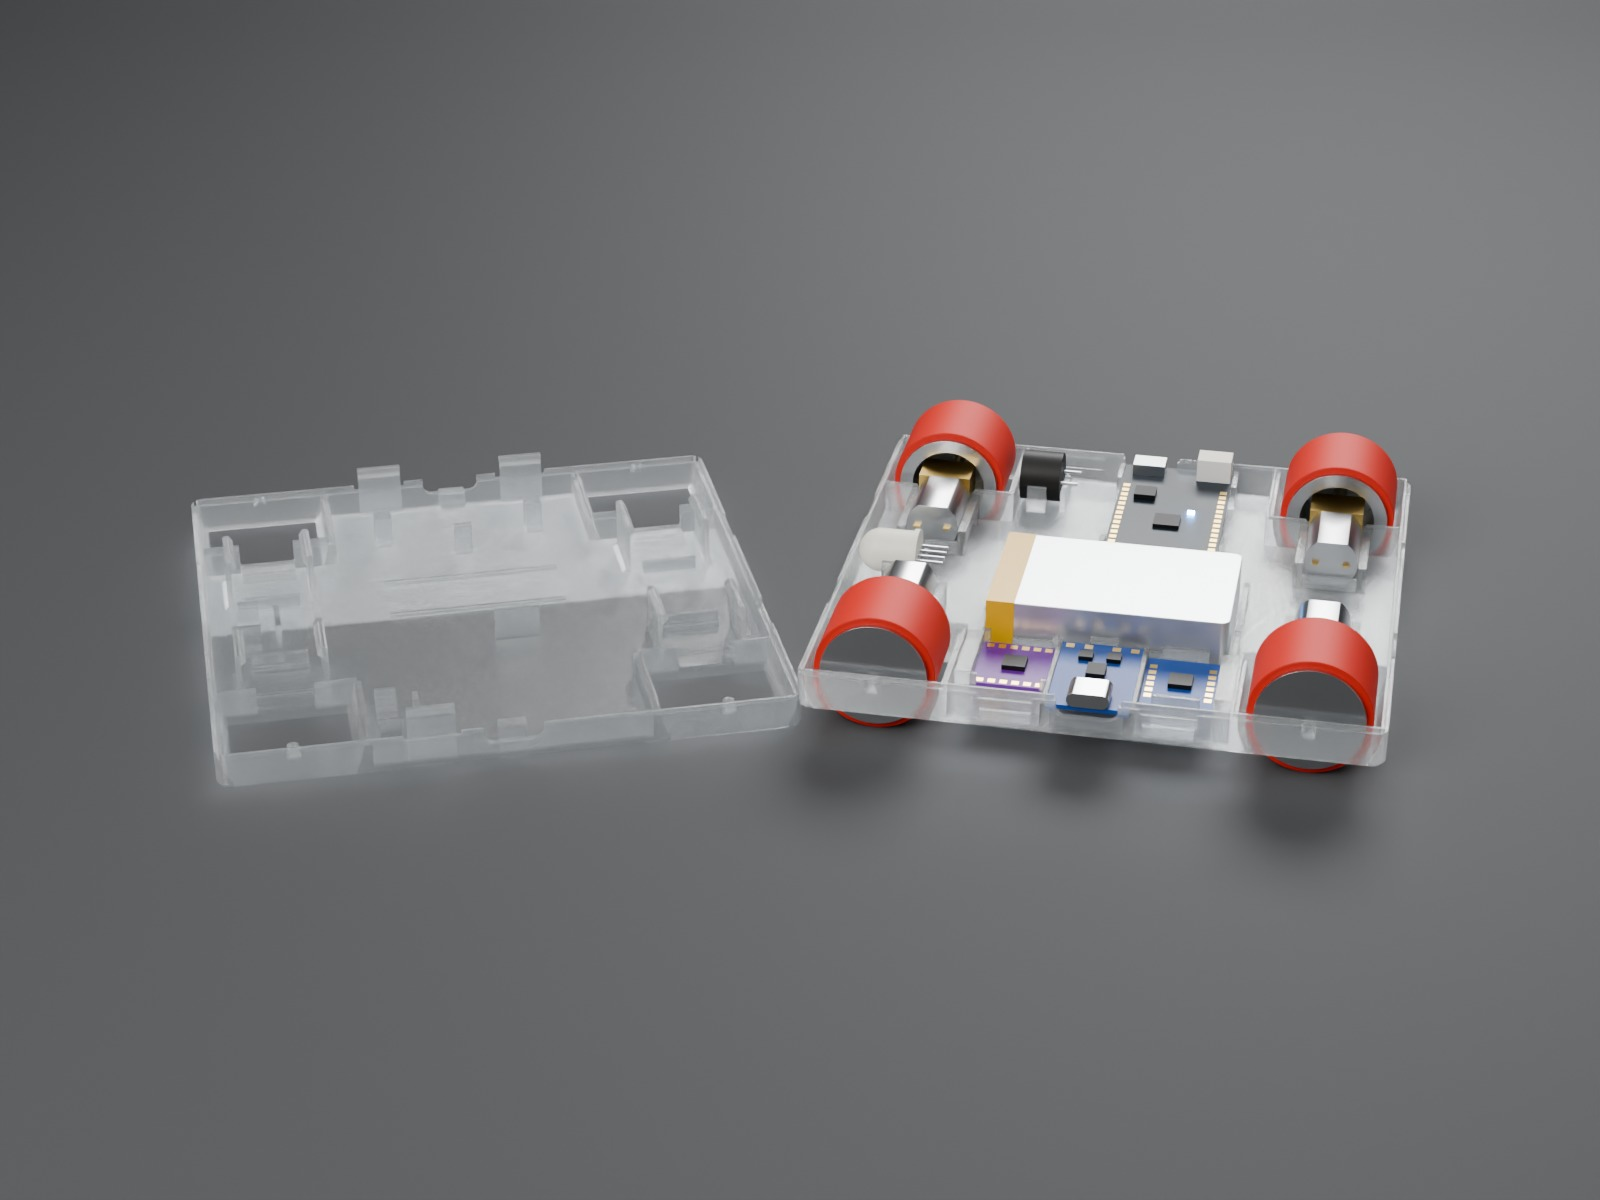
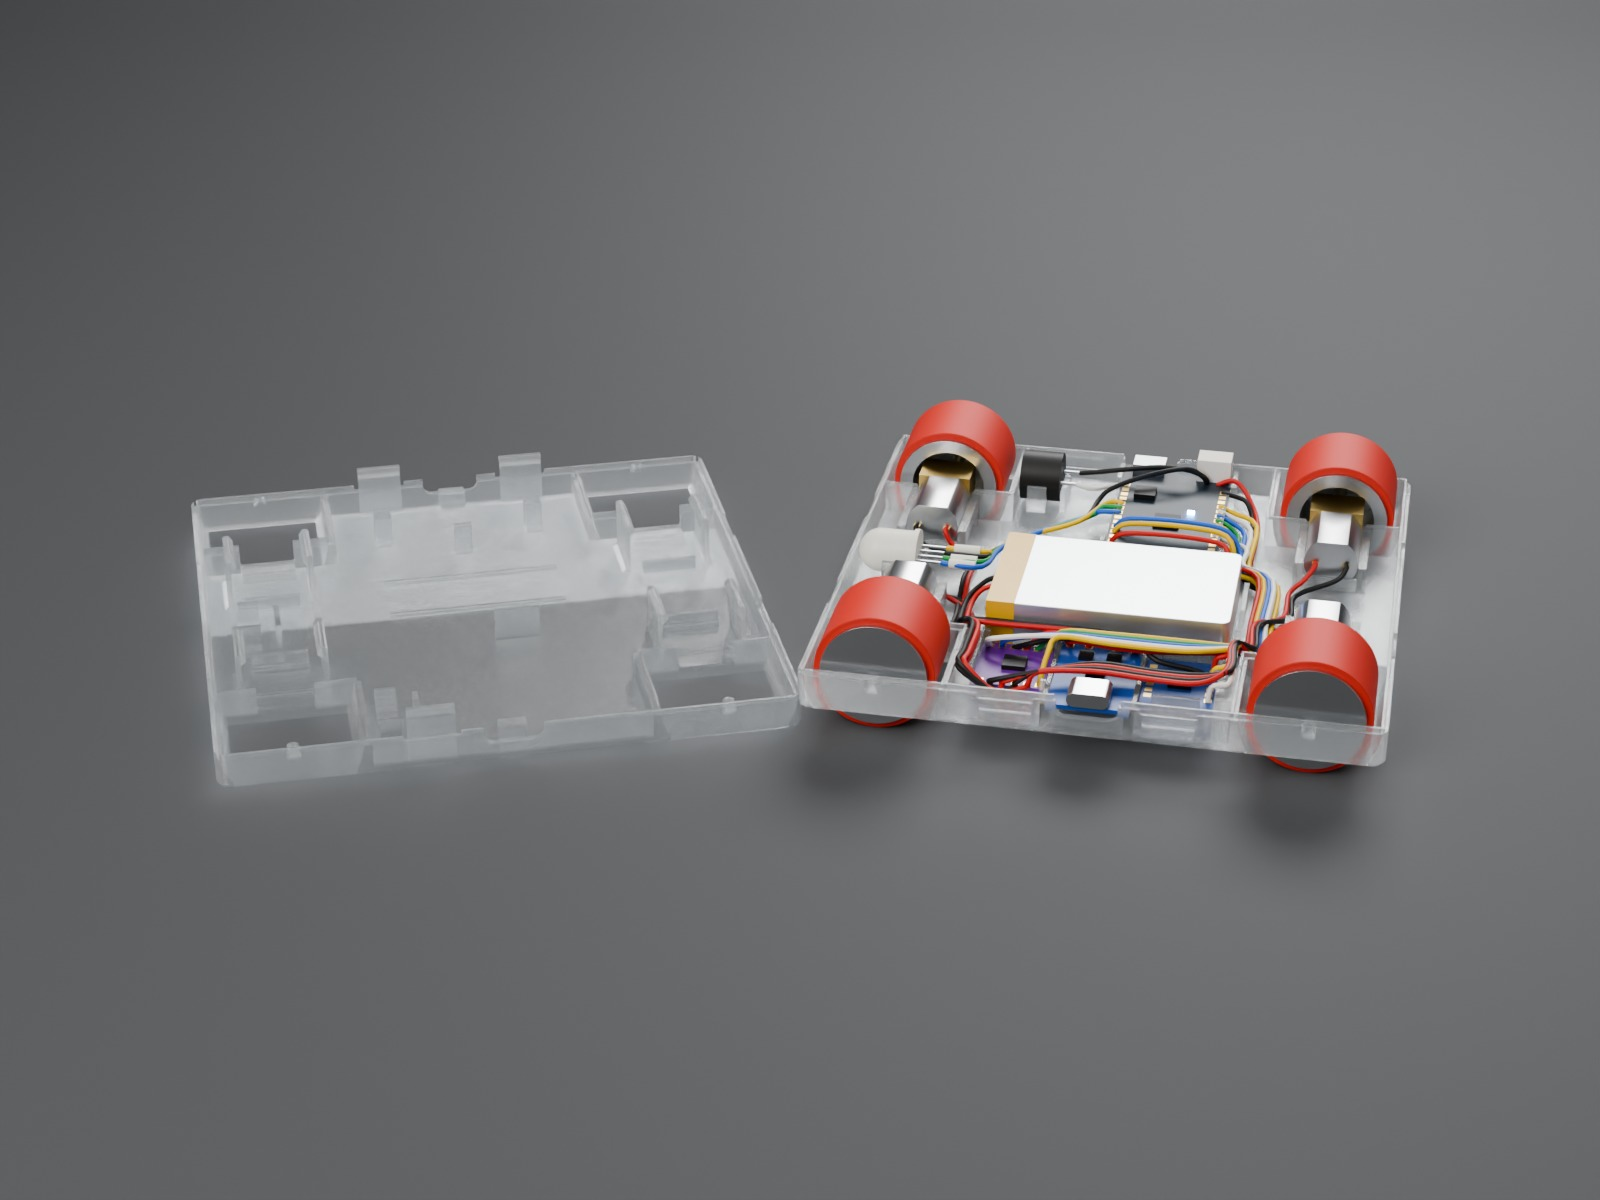
feat(cad): show the wiring in the product shots

Changed region(s): [[0.5625, 0.37, 0.8438, 0.6475]]

diff --git a/cad/product/render.py b/cad/product/render.py
@@ -164,7 +164,16 @@ def yaw(deg):
 
 FLIP = Matrix.Rotation(math.radians(180), 4, "X")
 CLEAR = (0.93, 0.96, 0.98)
+WIRES = {
+    "red": (0.55, 0.02, 0.015),
+    "black": (0.006, 0.006, 0.006),
+    "white": (0.82, 0.82, 0.78),
+    "yellow": (0.80, 0.52, 0.01),
+    "green": (0.02, 0.30, 0.06),
+    "blue": (0.02, 0.13, 0.62),
+}
 CONTENTS = ["tyres", "steel", "brass", "pcb_dark", "pcb_blue", "pcb_purple", "chips", "white", "battery", "tape", "foam", "led"]
+CONTENTS += ["wire_" + name for name in WIRES]
 mat = {}
 
 
@@ -185,6 +194,8 @@ def materials():
         foam=plastic("foam", (0.02, 0.02, 0.022), 0.9, bevel=0),
         led=emissive("led", (0.10, 0.40, 1.0), 90),
     )
+    for name, color in WIRES.items():
+        mat["wire_" + name] = plastic("wire_" + name, color, 0.55, bevel=0)
 
 
 # one bot: where the base, its contents and the lid go
